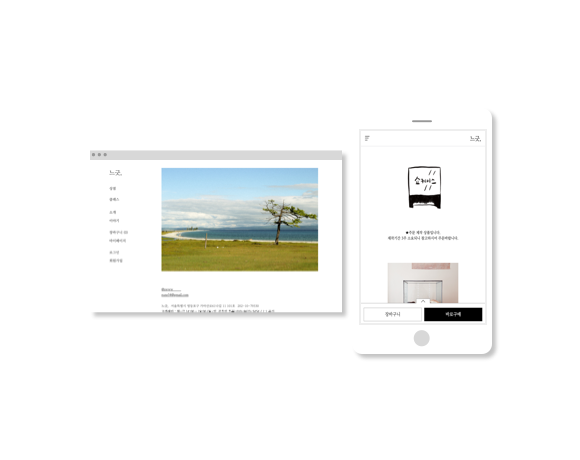
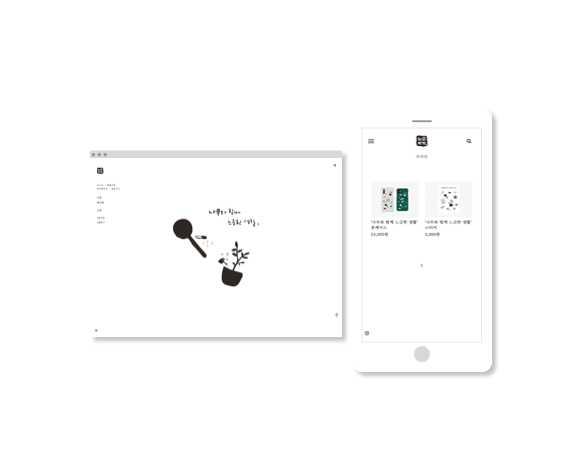
2020 04 ver.

diff --git a/index.html b/index.html
@@ -30,35 +30,47 @@
 
 	<p class="name">권진영 / Jinyoung Kwon</p>
 
-	<p class="text">다양한 분야의 스타트업에서 UX를 설계했습니다<span style="color:#9E9E9F">(때때로 간단한 디자인과 프론트엔드 개발도 합니다)</span>. 전하고자 하는 경험이 사람들에게 <span class="underline">쉽고 정확하게</span> 닿을 수 있도록 고민합니다. <span class="underline">과정</span>에 있어서 <span class="underline">더불어 즐겁게</span> 작업할 수 있는 환경을 중요하게 생각합니다. <span class="underline"> 마음을 끌어당기는</span> 일을 만나면 경계를 구분하지 않고 <span class="underline">주저 없이 시도</span>합니다. 현재는 <span style="box-shadow: inset 0 -7px 0 #9FD795;">&#x1F33F나무</span>와 <span style="box-shadow: inset 0 -7px 0 #F19A86;">&#x1F970마음</span>을 <span class="underline">돌보는 일</span>에 관심이 많으며, 화면 중심의 프로젝트뿐만 아니라 다양한 매체를 통해 좋은 경험을 줄 수 있는 재밌는 일들을 고민하고 있습니다.</p>
-	<p><a href="mailto:jinyoungkwwwon@gmail.com" style="text-decoration: underline;">jinyoungk<span style="font-weight:700">www</span>on@gmail.com</a></p>	
+	<div class="row">
+		<div class="col-sm-9">
+	<p class="text">안녕하세요🤚 다양한 저는 스타트업에서 UX/PM 업무를 맡아 왔습니다. 전하고자 하는 경험이 사람들에게 <span class="underline">쉽고 정확하게</span> 닿을 수 있도록 고민합니다. <span class="underline">과정</span>에 있어서 <span class="underline">더불어 즐겁게</span> 작업할 수 있는 환경을 중요하게 생각합니다. <span class="underline"> 마음을 끌어당기는</span> 일을 만나면 경계를 구분하지 않고 <span class="underline">주저 없이 시도</span>합니다. 현재는 <span style="box-shadow: inset 0 -7px 0 #9FD795;">&#x1F33F나무</span>와 <span style="box-shadow: inset 0 -7px 0 #F19A86;">&#x1F970마음</span>을 돌보는 일과 관련한 <span class="underline">좋은 경험</span>을 줄 수 있는 재밌는 일들을 고민하고 있습니다.</p>
+		<p><a href="mailto:jinyoungkwwwon@gmail.com" style="text-decoration: underline;">jinyoungk<span style="font-weight:700">www</span>on@gmail.com</a></p>	
+
+	</div>
+	<div class="col-sm-3">
+	<p  class="text" style="font-size:14px; text-decoration: underline;"><b>Skill Set</b></p>
+	<p class="" style="font-size:14px;">UX Architect (고급)
+	<br>UI/UX Design (초급)
+	<br>BX Design (초급)
+	<br>Frontend 개발 (초급)</p>
+	</div></div>
 	</div>
 
 	<div id="main">
 		<div class="row row-cols-1 row-cols-md-2">
 			<div class="col mb-4">
 				<div class="card">
-					<img src="/img/thumnail_fitpet.png" class="card-img-top" alt="..." width="100%">
+					<img src="/img/thumnail_swww.png?new" class="card-img-top" alt="..." width="100%">
 					<div class="card-body">
 						<!-- <h5 class="card-title">Card title</h5> -->
 						<!-- <p class="card-text">This card has supporting text below as a natural lead-in to additional content.</p> -->
-						<span class="card-text float-left">Fitpet<br><small class="text-muted"">#ux #pm</small></span>
-						<a href="#" class="btn btn-sm btn-outline-dark float-right" data-toggle="modal" data-target="#fitpet">자세히 보기 →</a>
-					</div>
-				</div>
-			</div>
-			<div class="col mb-4">
-				<div class="card">
-					<img src="/img/thumnail_swww.png" class="card-img-top" alt="..." width="100%">
-					<div class="card-body">
-						<!-- <h5 class="card-title">Card title</h5> -->
-						<!-- <p class="card-text">This card has supporting text below as a natural lead-in to additional content.</p> -->
-						<span class="card-text float-left">느긋목공방<br><small class="text-muted"">#frontend #visualdesign</small></span>
+						<span class="card-text float-left">느긋상점<br><small class="text-muted"">#bx #frontend</small></span>
 						<a href="#" class="btn btn-sm btn-outline-dark float-right" data-toggle="modal" data-target="#swww">자세히 보기 →</a>
 					</div>
 				</div>
 
 			</div>
+			<div class="col mb-4">
+				<div class="card">
+					<img src="/img/thumnail_fitpet.png" class="card-img-top" alt="..." width="100%">
+					<div class="card-body">
+						<!-- <h5 class="card-title">Card title</h5> -->
+						<!-- <p class="card-text">This card has supporting text below as a natural lead-in to additional content.</p> -->
+						<span class="card-text float-left">Fitpet<br><small class="text-muted"">#ux #bx #pm</small></span>
+						<a href="#" class="btn btn-sm btn-outline-dark float-right" data-toggle="modal" data-target="#fitpet">자세히 보기 →</a>
+					</div>
+				</div>
+			</div>
+			
 			<div class="col mb-4">
 				<div class="card">
 					<img src="/img/thumnail_qualson.png" class="card-img-top" alt="..." width="100%">
@@ -138,13 +150,13 @@
 
 		<!-- javascript -->
 		<script>
-			$( "#works_fitpet" ).load( "/works/fitpet.html" );
-			$( "#works_swww" ).load( "/works/swww.html?202003" );
+			$( "#works_fitpet" ).load( "/works/fitpet.html?202004" );
+			$( "#works_swww" ).load( "/works/swww.html?202004" );
 			$( "#works_realclass" ).load( "/works/realclass.html" );
-			$( "#works_tictoc" ).load( "/works/tictoc.html?2020" );
+			$( "#works_tictoc" ).load( "/works/tictoc.html?202004" );
 			// $( "#works_cycle" ).load( "/works/cycle.html" );
-			$( "#works_knowre" ).load( "/works/knowre.html?2020" );
-			$( "#works_mmt" ).load( "/works/mmt.html?2020" );
+			$( "#works_knowre" ).load( "/works/knowre.html?202004" );
+			$( "#works_mmt" ).load( "/works/mmt.html?202004" );
 
 		// modal back button
 		$('.modal').on('shown.bs.modal', function() {

diff --git a/works/fitpet.html b/works/fitpet.html
@@ -10,17 +10,17 @@
 		<div class="modal-body">
 			<div class="row">
 				<div class="col-md-8">
-					<p>스마트폰으로 간편하게 반려동물의 소변검사를 진행할 수 있는 펫테크 스타트업 <a class="url" href="http://fitpetcorp.com/" target="_blank">핏펫</a>의 'Ahead' 서비스의 앱/키트 UX 리디자인 프로젝트를 진행했습니다.</p> 
+					<p>스마트폰으로 간편하게 반려동물의 소변검사를 진행할 수 있는 펫테크 스타트업 <a class="url" href="http://fitpetcorp.com/" target="_blank">핏펫 http://fitpetcorp.com/</a>의 'Ahead' 서비스의 UX/BX 리디자인 프로젝트를 진행했습니다.</p> 
 				</div>
 				<div class="col-md-4">
 					<h6>Role</h6>
-					<p><b>UX Lead / PM</b><br>UX전략, 사용자 조사, 스프린트 관리</p>
-					<p>2019.5 - 2019.12</p>
+					<p><b>UX Lead / PM</b><br>UX/BX 전략, 사용자 조사, 스프린트 관리</p>
+					<p>2019</p>
 				</div>
 			</div>
 
 			<h4>배경</h4>
-			<p>소변검사 키트의 사용법이 비교적 복잡하고 권장하는 사용법을 지켜야 신뢰도 높은 결과를 얻을 수 있으나 사용법이 직관적으로 가이드 되지 않아 이에 대한 VoC가 적재되어 있었습니다. 또한 간이 검사라는 제품 특성상 확진이 아니기 때문에 정확한 정보 전달과 톤앤매너 개선이 필요했습니다.</p> 
+			<p>소변검사 키트의 사용법이 비교적 복잡하고 권장하는 사용법을 지켜야 신뢰도 높은 결과를 얻을 수 있으나 사용법이 직관적으로 가이드 되지 않아 이에 대한 VoC가 적재되어 있었습니다. 또한 간이 검사라는 제품 특성상 확진이 아니기 때문에 정확한 정보 전달과 톤앤매너 개선을 포함한 BX 개선이 필요했습니다.</p> 
 
 			<h4>과정</h4>
 			<img src="/img/works_fitpet_1.png?2020">
@@ -32,7 +32,7 @@
 			<h4>결과</h4>
 			<div class="row">
 				<div class="col-md-6">
-					<p><b>반려동물을 함께 돌보는 '우리 아이 건강돌보미'</b><br>·건강케어 제품에 적합한 톤앤매너 선정<br>·온보딩에서부터 친근한 톤앤매너 유지하여 engagement를 높임</p>
+					<p><b>반려동물을 함께 돌보는 '우리 아이 건강돌보미'</b><br>·헬스 케어 제품으로서 사용자에게 '정확한', '믿을 수 있는', '간편한' 느낌을 줄 수 있는 BX 설계/디자인<br>· 온보딩에서부터 '우리 아이 건강돌보미'의 컨셉에 걸맞는 톤앤매너 유지하여 engagement를 높임</p>
 				</div>
 				<div class="col-md-6">
 					<img src="/img/works_fitpet_2.png?2020">
@@ -51,7 +51,7 @@
 			<br><br>
 			<div class="row">
 				<div class="col-md-6">
-					<p><b>안내</b><br>·간이 검사로써 전달할 수 있는 정보의 범위를 정확하게 명시<br>·건강 케어에 도움이 되는 연관 건강 정보 제시</p>
+					<p><b>쉽고 정확한 검사 결과</b><br>·간이 검사로써 전달할 수 있는 정보의 범위를 정확하게 명시<br>·건강 케어에 도움이 되는 연관 건강 정보 제시</p>
 				</div>
 				<div class="col-md-6">
 					<img src="/img/works_fitpet_4.png?2020">

diff --git a/works/swww.html b/works/swww.html
@@ -1,7 +1,7 @@
 <div class="modal-dialog modal-lg" role="document">
 	<div class="modal-content">
 		<div class="modal-header">
-			<h2 class="modal-title">느긋목공방</h2>
+			<h2 class="modal-title">느긋상점</h2>
 			<button type="button" class="close" data-dismiss="modal" aria-label="Close">
 				<span aria-hidden="true">&times;</span>
 			</button>
@@ -9,29 +9,29 @@
 		<div class="modal-body">
 			<div class="row">
 				<div class="col-md-8">
-					<p>오프라인 공간을 중심으로 운영하는 목공방 <a class="url" href="http://www.swww.co.kr/"  target="_blank">느긋,</a>의 홈페이지 프로젝트를 진행했습니다.</p> 
+					<p>우드카빙, 가드닝을 중심으로 '나무와 함께 느긋한 생활'을 지향하는 <a class="url" href="http://www.swww.co.kr/"  target="_blank">느긋상점 http://www.swww.co.kr/</a>의 BX 및 홈페이지를 구축했습니다.</p> 
 				</div>
 				<div class="col-md-4">
 					<h6>Role</h6>
-					<p><b>퍼블리싱, 디자인</b></p>
-					<p>2018.12 - 2019.3</p>
+					<p><b>BX, 퍼블리싱, 운영</b></p>
+					<p>2020 (진행중)</p>
 				</div>
 			</div>
 
 
 			<h4>배경</h4>
-			<p>공방 소개 및 공간 중심으로 운영되는 워크샵과 제품 판매가 가능한 홈페이지 요청</p> 
-
+			<p>'나무'를 매개로 만드는 사람, 돌보는 사람이 함께 운영하는 느긋한 라이프스타일을 지향하는 온/오프라인 기반의 상점 구축</p> 
 			<h4>과정</h4>
 			<img src="/img/works_swww_1.png" width="70%" style="margin:0 auto;">
-			<p>·기능 정의를 위한 브레인스토밍
+			<p>·BX/UX 정의를 위한 브레인스토밍
 			 <br>·적합한 솔루션 선정
 			 <br>·프론트엔드 개발 및 디자인</p>
 			
 			<h4>결과</h4>
-			<p>·고도몰을 이용한 커머스가 가능한 홈페이지 구축
+			<p>·브랜드 아이덴티티 구축 및 굿즈 제작
+			<br>·고도몰을 이용한 커머스가 가능한 홈페이지 구축
 			<br>·오프라인 공간 중심의 활동과 커머스 페이지가 자연스럽게 어우러지도록 구성 
-			<img src="/img/works_swww_2.png" width="50%" style="margin:0 auto;">
+			<img src="/img/works_swww_2.png?202004" width=100%" style="margin:0 auto;">
 		</div>
 
 	</div>

diff --git a/works/knowre.html b/works/knowre.html
@@ -8,12 +8,12 @@
 		<div class="modal-body">
 			<div class="row">
 				<div class="col-md-8">
-					<p>에듀테크 스타트업 Knowre에서 진행한 태블릿용 연산학습 어플리케이션 '연산노리' 프로젝트에 초기부터 참여하여, 개발 및 검증을 거쳐 수학교육복합센터 <a class="url" href="https://knowresquare.kr/knowre.html"  target="_blank" style="text-decoration: underline;">노리스퀘어</a>에서 2017년 3월 정식 런칭했습니다.</p> 
+					<p>에듀테크 스타트업 Knowre에서 진행한 태블릿용 연산학습 어플리케이션 '연산노리' 프로젝트에 초기부터 참여하여, 개발 및 검증을 거쳐 수학교육복합센터 <a class="url" href="https://knowresquare.kr/knowre.html"  target="_blank" style="text-decoration: underline;">노리스퀘어 https://knowresquare.kr/knowre.html</a>에서 2017년 3월 정식 런칭했습니다.</p> 
 				</div>
 				<div class="col-md-4">
 					<h6>Role</h6>
 					<p><b>UX설계 / PM</b><br>사용자 조사, UX설계, 스프린트 관리</p>
-					<p>2015.5 - 2017.5</p>
+					<p>2015 - 2017</p>
 				</div>
 			</div>
 

diff --git a/works/realclass.html b/works/realclass.html
@@ -7,12 +7,12 @@
 		<div class="modal-body">
 			<div class="row">
 				<div class="col-md-8">
-					<p>에듀테크 스타트업 퀄슨에서 드라마, 영화를 통해 즐겁게 영어 학습을 하는 사람들을 위한 영상 콘텐츠 기반의 영어 학습 서비스 <a class="url" href="http://realclass.co.kr/" target="_blank">리얼클래스</a>와 <a class="url" href="https://britenglish.co.kr/" target="_blank">브릿잉글리쉬</a> 서비스 개발에 참여했습니다.</p> 
+					<p>에듀테크 스타트업 퀄슨에서 드라마, 영화를 통해 즐겁게 영어 학습을 하는 사람들을 위한 영상 콘텐츠 기반의 영어 학습 서비스 <a class="url" href="http://realclass.co.kr/" target="_blank">리얼클래스 http://realclass.co.kr/</a>와 <a class="url" href="https://britenglish.co.kr/" target="_blank">브릿잉글리쉬 https://britenglish.co.kr/</a> 서비스 개발에 참여했습니다.</p> 
 				</div>
 				<div class="col-md-4">
 					<h6>Role</h6>
 					<p><b>UX설계, PM</b></p>
-					<p>2018.3 - 2018.11</p>
+					<p>2018</p>
 				</div>
 			</div>
 

diff --git a/works/mmt.html b/works/mmt.html
@@ -9,12 +9,12 @@
 		<div class="modal-body">
 			<div class="row">
 				<div class="col-md-8">
-					<p>팬 중심 크라우드 콘서트 메이킹 플랫폼을 만드는 스타트업 <a class="url" href="http://MyMusicTaste.com/" target="_blank">마이뮤직테이스트</a>에서 서비스 관리를 위한 데이터 관리 페이지의 UX설계부터 프론트엔드 개발까지 1인 프로젝트로 진행했습니다.</a></p>
+					<p>팬 중심 크라우드 콘서트 메이킹 플랫폼을 만드는 스타트업 <a class="url" href="http://MyMusicTaste.com/" target="_blank">마이뮤직테이스트 http://mymusictaste.com/</a>에서 서비스 관리를 위한 데이터 관리 페이지의 UX설계부터 프론트엔드 개발까지 1인 프로젝트로 진행했습니다.</a></p>
 				</div>
 				<div class="col-md-4">
 					<h6>Role</h6>
 					<p><b>프론트엔드 개발, UX</b></p>
-					<p>2013.1 - 2014.2</p>
+					<p>2013-2014</p>
 				</div>
 			</div>
 			<hr>

diff --git a/works/tictoc.html b/works/tictoc.html
@@ -9,13 +9,13 @@
 		<div class="modal-body">
 			<div class="row">
 				<div class="col-md-8">
-					<p>아이돌봄 매칭 플랫폼 <a class="url" href="http://tictoccroc.com/" target="_blank">째깍악어</a>의 모바일 앱 개편 프로젝트를 진행했습니다.</p>
+					<p>아이돌봄 매칭 플랫폼 <a class="url" href="http://tictoccroc.com/" target="_blank">째깍악어 http://tictoccroc.com/</a>의 모바일 앱 개편 프로젝트를 진행했습니다.</p>
 				</div>
 				<div class="col-md-4">
 					<h6>Role</h6>
 					<p><b>UX, 프론트엔드 개발</b></p>
 					<p>UX설계, 콘텐츠 전략, 프론트엔드 개발, 스프린트 관리</p>
-					<p>2017.10 - 2018.2</p>
+					<p>2018</p>
 				</div>
 			</div>
 
